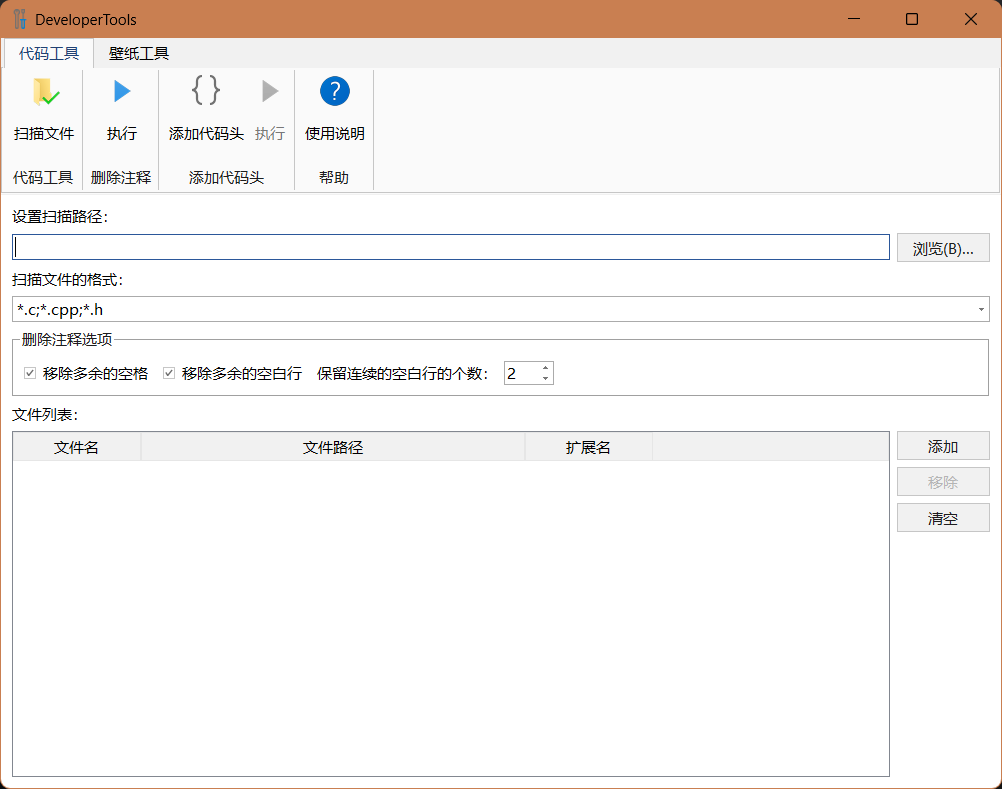
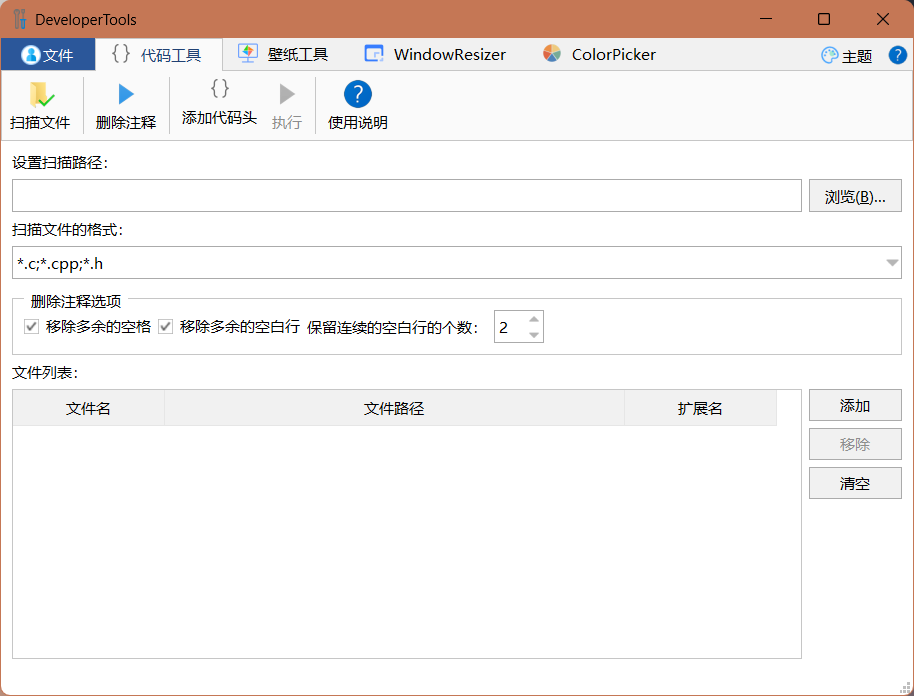
readme更新

diff --git a/README.md b/README.md
@@ -3,7 +3,15 @@
 
 使用 Visual Studio 2022 + Qt VS Tools 开发，Qt 版本：5.15.2。
 
-支持模块扩展。功能尚未完善，目前实现了删除代码注释的功能。
+支持模块扩展。
+
+## 界面框架
+
+界面框架使用Qt编写，实现了Ribbon风格界面，通过`MainFrame.xml`文件配置Ribbon标签中的元素以及加载的模块。
+
+界面框架的说明和源代码请参见此版本库：
+
+[zhongyang219/RibbonUiFrame: 这是一个界面框架模块，实现了Ribbon风格的样式，使用xml文件配置Ribbon标签页。此框架可以将Qt或MFC/Win32程序集成到同一个应用程序中。 (github.com)](https://github.com/zhongyang219/RibbonUiFrame/)
 
 ## 代码工具
 
@@ -16,4 +24,24 @@
 <img src="images/image-20230210224931657.png" alt="image-20230210224931657" style="zoom:80%;" />
 
 实现了显示当前壁纸，当前壁纸另存为，删除当前壁纸的功能。
+
+## WindowResizer
+
+这是一个用于调整窗口大小的软件，具有以去除窗口的边框、强制最大化等功能。源代码和说明请参见以下版本库：
+
+[zhongyang219/WindowResizer: 这是一个用于调整窗口大小的软件，这对于那些无法调整大小的窗口尤其有用。 (github.com)](https://github.com/zhongyang219/WindowResizer)
+
+<img src="images/image-20230827192143594.png" alt="image-20230827192143594" style="zoom:80%;" />
+
+如果需要将WindowResizer作为一个模块加载到DevelperTools中，拉取WindowResizer后，请在Visual Studio菜单栏选择“项目”>“属性”，选择“常规”，将“配置类型”由“应用程序(.exe)”改成“动态库(.dll)”，编译生成dll文件后即可被DevelperTools加载。
+
+## ColorPicker
+
+ColorPicker是一个取色工具，源代码和说明请参见以下版本库：
+
+[zhongyang219/ColorPicker: 这是一个简单的取色软件 (github.com)](https://github.com/zhongyang219/ColorPicker)
+
+<img src="images/image-20230827192705226.png" alt="image-20230827192705226" style="zoom:80%;" />
+
+要将ColorPicker作为一个模块加载到DevelperTools中，同样需要在Visual Studio菜单栏选择“项目”>“属性”，选择“常规”，将“配置类型”由“应用程序(.exe)”改成“动态库(.dll)”。
 
